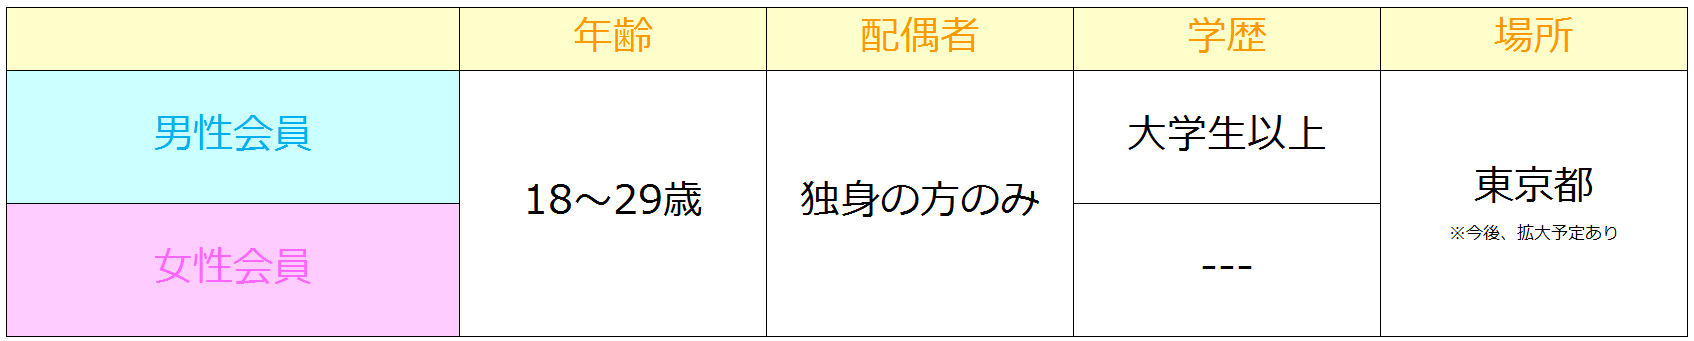
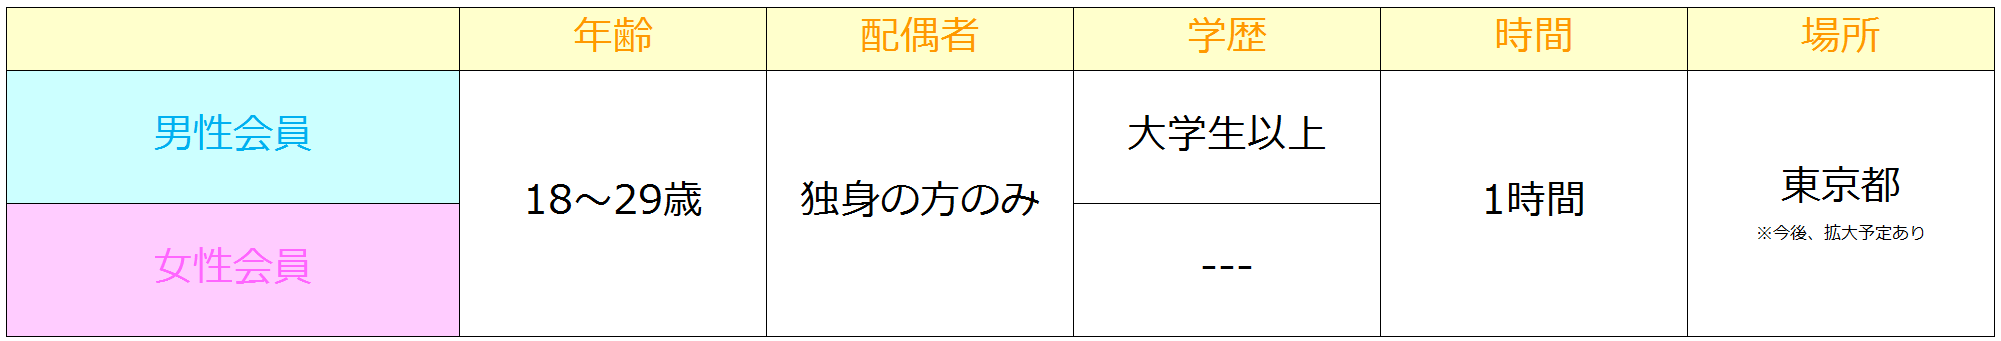
条件（1時間制）＆利用規約とプライバシーポリシー追加

diff --git a/sample/kiyaku.html b/sample/kiyaku.html
@@ -4,8 +4,8 @@
   <meta charset="UTF-8">
   <meta name="viewport" content="width=device-width,initial-scale=1.0,minimum-scale=1.0">
   <title>利用規約 | Symply</title>
-  <link rel="stylesheet" href="css/normalize.css">
-  <link rel="stylesheet" href="css/kiyaku.css">
+  <link rel="stylesheet" href="normalize.css">
+  <link rel="stylesheet" href="kiyaku.css">
   <link rel="shortcut icon" href="images/logo.jpg">
   <script src="jquery-3.1.1.min.js"></script> 
 </head>
@@ -13,19 +13,19 @@
 <div id="kihon">
   <h1>Symply利用規約</h1>
   <div id="zentei">
-      <p>最新改訂日：2016年10月31日</p>
+      <p>最新改訂日：2016年12月1日</p>
       <p>Symply（以下「当サービス」といいます）は、Symply株式会社（以下「当社」が運営しております。なお、当社が当サービスの運営の全部又は一部を第三者に委託する場合、当該第三者を含みます。以下同様とします）が提供しています。</p>
 
-      <p>お客様が会員登録をなさるかどうかに関係なく、当サービスをご利用になれば、お客様はその時点で以下の利用規約（以下「本規約」といいます）をそのまま同意したことになり、本規約を内容とする当サービス利用契約（当社がお客様に当サービスを提供するための契約をいい、以下「本契約」といいます）が当社との間で締結されます。当サービスをご利用になる前に、本規約をよくお読みください。本規約に同意しない場合は、当サービスを利用しないでください。</p>
+      <p>当サービスをご利用されたお客様はその時点で以下の利用規約（以下「本規約」といいます）に同意したことになります。本規約を内容とする当サービス利用契約（当社がお客様に当サービスを提供するための契約をいい、以下「本契約」といいます）が当社との間で締結されます。</p>
 
-      <p>また、本規約に同意いただいた場合、当社は、お客様のメールアドレス（お客様がFacebookに登録したメールアドレスまたはその後当社にお知らせいただいたメールアドレス）に、当サービスからの広告等を配信できるものとします。</p>
+      <p>本規約に同意いただいた場合、当社からお客様のメールアドレス（お客様がFacebookに登録したメールアドレスまたはその後当社にお知らせいただいたメールアドレス）に、当サービスからの広告等を配信できるものとします。</p>
 
-      <p>なお、当サービスのウェブサイト（https://symply.jp）上で別途定める諸規定（当社のお客様への通知、ユーザーガイド、料金表、ヘルプ、注意書き、その他当社による当サービスのウェブサイト、アプリ上の記載の全てを含みます）は、それぞれ本規約の一部を構成します。本規約の内容と当該諸規定の内容との間に矛盾抵触がある場合には、本規約が優先して適用されますので、本規約と併せてご確認ください。</p>
+      <p>なお、当サービスのウェブサイト（http://symply.jp）上で別途定める諸規定（当社のお客様への通知、ユーザーガイド、料金表、ヘルプ、注意書き、その他当社による当サービスのウェブサイトの記載の全てを含みます）は、それぞれ本規約の一部を構成します。本規約の内容と当該諸規定の内容との間に矛盾抵触がある場合には、本規約が優先して適用されますので、本規約と併せてご確認ください。</p>
   </div>
   
   <div id="about">
       <h2>1.当サービスとは？</h2>
-      <p>当サービスは、恋愛や出会いを希望する世界中の独身の男女（18歳以上。ただし、18歳以上であっても、高校在学中の方、又は、高校に在学はしていないものの高校生相当の方※〔以下、併せて「高校生」と総称します〕は除きます）を対象に、最適なパートナーと知り合う機会を提供するものです（なお、結婚相手をご紹介するサービスではありません。ご結婚を目的とした利用はお控えください）。 当サービスへの会員登録は無料で行うことができますが、無料でお使いになれる機能は限られており、他のお客様と十分なコミュニケーションをとるためには有料の機能をお使いいただくことをお勧めしております（詳しくは第4項をご参照ください）。
+      <p>当サービスは、恋愛や出会いを希望する世界中の独身の男女（18歳以上。ただし、18歳以上であっても、高校在学中の方、又は、高校に在学はしていないものの高校生相当の方※〔以下、併せて「高校生」と総称します〕は除きます）を対象に、最適なパートナーと知り合う機会を提供するものです（なお、結婚相手をご紹介するサービスではありません。ご結婚を目的とした利用はお控えください）。
       </p>
   </div>
     
@@ -44,28 +44,23 @@
   </div>
     
   <div id="plan">
-      <h2>4.会員プラン料金について</h2>
-      <p>当サービスのうち、有料のオプションサービス、有料会員が利用できる機能およびサービス（以下「有料サービス」と総称します。なお、Omiaiポイントに関するオプションサービスは除きます）のご利用に際しては、当社の定めるご利用料金（以下「会員プラン料金」といいます）をお支払いいただきます（最新の有料会員プランと会員プラン料金は、こちらをご参照ください）。</p>
+      <h2>4.料金について</h2>
+      <p>料金の決済手段には、クレジットカード決済（クレジットカードは必ずお客様本人名義のものをご利用ください。なお、Vプリカ、デビットカード等、クレジットカードでないものはご利用になれませんのでご注意ください）にございます。これら以外の決済手段を用いた場合については当社によるサポート対象外となり、料金の支払いを当社が確認できない等、これら以外の決済手段を用いた場合にお客様が被る不利益について、当社は責任を負いかねますので、ご注意ください。。</p>
 
-      <p>なお、会員プラン料金の決済手段には、クレジットカード決済（クレジットカードは必ずお客様本人名義のものをご利用ください。なお、Vプリカ、デビットカード等、クレジットカードでないものはご利用になれませんのでご注意ください）、コンビニ決済、Appleのアプリ内課金決済、Google Play決済、プリペイド方式の電子マネーによる決済手段（BitCash、WebMoney、NETCASH等をいい、以下「プリペイド式電子マネー決済」と総称します）その他当社が別途定める方法がございます。これら以外の決済手段を用いた場合については当社によるサポート対象外となり、会員プラン料金の支払いを当社が確認できない等、これら以外の決済手段を用いた場合にお客様が被る不利益について、当社は責任を負いかねますので、ご注意ください。また、各決済手段による契約期間については、第8項をご参照ください。</p>
-
-      <p>ご購入手続き完了後は、当サービスの使用の有無にかかわらず、ご購入のキャンセル、会員プラン料金の返金や未利用期間の日割り計算による精算および有料サービスプランの変更等は、いずれの決済手段をご利用の場合においても一切いたしかねますので、ご注意ください。</p>
-
-      <p>また、月または期間の途中で有料サービスをお申し込みまたはご解約（解約につきましては第8項をご参照ください）になった場合であっても、既にお支払いいただいた（ご購入手続きを完了された場合を含みます。以下同様とします。）会員プラン料金の返金や未利用期間の日割り計算による精算は一切行っておりませんので、ご注意ください。</p>
+      <p>ご購入手続き完了後は、当サービスの使用の有無にかかわらず、ご購入のキャンセル、料金の返金や精算およびサービスの変更等は、いずれの決済手段をご利用の場合においても一切いたしかねますので、ご注意ください。</p>
   </div>
     
   <div id="kinshi">
       <h2>5.禁止事項</h2>
       <p>当サービスのご利用に際しては、以下の事項を禁止します。なお、当サービスでは、お客様が本規約に違反する行為を発見した場合、当社に報告する機能がございます。詳しくはこちらをご覧ください。</p>
       <p>(1)正しく事実に合致しない情報を、当社に提供し、または当サービスに投稿、掲載、開示、配布、提供もしくは送信（以下これらを総称して「投稿等」といいます）する行為（Facebookを通じて提供する場合を含みます）</p>
-      <p>※プロフィールの内容は常に最新かつ正確なものとなるようにしてください。これを怠ったことによるお客様の不利益につき、当社は一切の責任を負いません。また、プロフィールの内容については、本規約に抵触していないかどうかを当社が掲載前に確認し、確認の結果、当社はお客様のプロフィールの掲載を見合わせる場合があります（ただし、当社はこの確認の義務を負いません。すべてのお客様のプロフィールの内容をもれなく掲載前に確認することはできかねます）。なお、当社が設けた選別基準によって登録されない場合があります。</p>
       <p>(2)日本または当サービスのご利用の際にお客様が所在する国・地域の法令に違反する行為</p>
       <p>(3)社会規範・公序良俗に反するものや、他人の権利を侵害し、または他人の迷惑となるような情報を投稿等する行為</p>
       <p>(4)他のお客様に対して誹謗中傷したり、嫌がらせをしたりする行為</p>
       <p>(5)他人の使用するソフトウェア、ハードウェアなどの機能を破壊したり、妨害したりするようなプログラムなどの投稿等をする行為</p>
       <p>(6)当社のサーバーまたはネットワークの機能を破壊したり、妨害したりする行為</p>
       <p>(7)当社のサービス（当サービスに限りません）の運営または当社の配信する広告の掲載（当サービスに関するものに限りません）を妨害し、または妨害するおそれのある行為</p>
-      <p>(8)他のお客様の個人情報（Omiaiプライバシーステートメントにて定義されます）などを無断で収集したり蓄積したりする行為</p>
+      <p>(8)他のお客様の個人情報などを無断で収集したり蓄積したりする行為</p>
       <p>(9)当サービスを、提供の趣旨に照らして本来のサービス提供の目的（第1項をご参照ください）とは異なる目的で利用する行為</p>
       <p>(10)他のお客様のアカウントを使用してサービスを利用する行為</p>
       <p>(11)Facebookの利用規約（ガイドライン、ポリシー、ヘルプ、注意書きその他のFacebookが定める規定を含みます。以下同様とします）に違反する行為</p>
@@ -108,20 +103,6 @@
   <div id="keiyaku">
       <h2>6.契約期間および契約の終了</h2>
       <p>お客様が当サービスを利用され、または当サービスのお客様である限り、本契約は有効です。当サービスではクーリングオフは認められません。</p>
-
-      <p>お客様は当サービスの退会申請フォームから契約終了の通知を当社にお送りいただくことで、いつでもいかなる理由でも、お客様は本契約を終了させることができます。ただし、当社の定める手続きによる退会申請がなされた場合または本規約に基づくとき以外の場合には、本契約が終了いたしませんので、ご注意ください。なお、既に支払われた会員プラン料金については、本契約が終了し、または終了していなくても、一切、返金はいたしかねます。</p>
-
-      <p>なお、クレジットカード決済、コンビニ決済、プリペイド式電子マネー決済により有料サービスをご利用の場合、本契約終了以前に購入された有料サービスの契約期間が残っていても、本契約終了後は、本契約終了の理由を問わず、有料サービスがご利用いただけなくなりますので、ご注意ください（Appleのアプリ内課金の場合には、Appleの規約により、有料サービスの契約期間が残っている限り、退会申請をして本契約を終了させることができませんので、ご注意ください）。</p>
-
-      <p>■有料サービスが自動更新される場合について■</p>
-      <p>クレジットカード決済、Google Play決済またはAppleのアプリ内課金により会員プラン料金をお支払いいただいている場合、有料サービスはお客様がご自身で自動更新を停止されない限り、自動的に更新されます。当サービスの設定で自動更新をオフにすることで、有料サービスの自動更新およびその料金のお支払いを停止することが可能です。詳細はヘルプをご確認ください。自動更新をオフにし、ご購入いただいた有料サービスの契約期間が満了となった時点で、有料サービスが終了となります（Appleのアプリ内課金またはGoogle Play決済の場合、ご自身で自動更新を停止されない限り、毎月AppleまたはGoogleへの支払いが発生いたします。お問い合わせ等は当社では対応いたしかねますので、各社のサポートセンターにお申し出ください）。</p>
-
-      <p>なお、クレジットカード決済により有料サービスをご利用の場合、自動更新をオフにした時点から、当サービスの退会申請フォームから無料サービス（当サービスのうち、無料会員が利用できる機能およびサービス）を含む本契約を終了させることが可能となります。また、Appleのアプリ内課金またはGoogle Play決済をご利用の場合、有料サービスの契約期間満了後に、退会申請フォームから無料サービスを含む本契約を終了させることが可能となります。</p>
-
-      <p>■有料サービスが自動更新されない場合について■</p>
-      <p>コンビニ決済、プリペイド式電子マネー決済により会員プラン料金をお支払いいただいている場合、有料サービスは自動更新されません。継続してサービスをご利用される場合、お客様ご自身で有料サービスの契約期間満了後に再度ご購入いただく必要があります。お客様が有料サービスの利用を終了された場合、それまでにご利用いただいていた有料サービスの全てがご利用いただけなくなります。</p>
-
-      <p>なお、コンビニ決済、プリペイド式電子マネー決済の場合、有料サービスの契約期間内であっても、即時で退会申請フォームより契約を終了させる事が可能となります。</p>
   </div>
     
   <div id="mokuteki">
@@ -133,7 +114,7 @@
       <h2>8.投稿等の削除、サービスの利用停止、アカウント削除について</h2>
       <p>お客様が当サービスに投稿等した内容および当サービスを通してお客様が他のお客様に提供した内容については、お客様が単独で責任を負うものとし、当社は一切責任を負いません。お客様が当サービスに関連して投稿等した場合はいつでも、その内容が正確であり、本契約に違反せず、かつあらゆる点で誰にも損害を生じさせるものでないことを、お客様は表明し、保証したことになります。</p>
 
-      <p>当社は、当サービスを適正に運営するために、以下の場合にはあらかじめ通知することなく、お客様のメッセージその他のお客様が投稿等したコンテンツを削除したり、サービス提供の全部または一部の利用を一時的に停止したり、お客様のアカウントを削除する（本契約も終了します）等、当社が適切と判断する各措置を講じることができるものとします。なお、有料会員であっても、各措置を講じるか否か、どのような措置を講じるかの判断基準は無料会員と同様ですので、ご注意ください。有料会員のアカウントを削除した場合であっても、日割り計算による精算等は一切応じかねますのでご注意ください（なお、クレジットカード決済をご利用の場合には、自動更新は停止されます）。また、残っていたOmiaiポイントは消滅しますが、返金等は一切対応しておりませんので、ご注意ください。</p>
+      <p>当社は、当サービスを適正に運営するために、以下の場合にはあらかじめ通知することなく、お客様のメッセージその他のお客様が投稿等したコンテンツを削除したり、サービス提供の全部または一部の利用を一時的に停止したり、お客様のアカウントを削除する（本契約も終了します）等、当社が適切と判断する各措置を講じることができるものとします。なお、有料会員であっても、各措置を講じるか否か、どのような措置を講じるかの判断基準は無料会員と同様ですので、ご注意ください。有料会員のアカウントを削除した場合であっても、日割り計算による精算等は一切応じかねますのでご注意ください（なお、クレジットカード決済をご利用の場合には、自動更新は停止されます）。また、返金等は一切対応しておりませんので、ご注意ください。</p>
 
       <p>なお、当サービス上で提供する「メッセージ」システムによるコミュニケーション手段は当社の管理する電子掲示板を通じて提供されます。電子掲示板は、「メッセージ」を送受信するお客様同士と当社が閲覧できる仕様となっております。お客様は、事故を防止し健全なサービスを運営する目的で、当社が電子掲示板に記載されている内容を閲覧し、以下のとおり削除等の措置をとることにあらかじめ同意するものとします。ただし、当社として電子掲示板を巡回・監視する義務を負うものではありません。</p>
 

diff --git a/sample/privacy.html b/sample/privacy.html
@@ -1,0 +1,122 @@
+<!DOCTYPE html>
+<html lang="ja">
+<head>
+  <meta charset="UTF-8">
+  <meta name="viewport" content="width=device-width,initial-scale=1.0,minimum-scale=1.0">
+  <title>利用規約 | Symply</title>
+  <link rel="stylesheet" href="normalize.css">
+  <link rel="stylesheet" href="kiyaku.css">
+  <link rel="shortcut icon" href="images/logo.jpg">
+  <script src="jquery-3.1.1.min.js"></script> 
+</head>
+<body>
+<div id="kihon">
+    <h1>プライバシーポリシー</h1>
+  <div id="zentei">
+      <p>最新改定日：2016年12月1日</p>
+
+<p>Symplyは、Symply株式会社(以下「当社」といいます) が運営するサービス（symply.jpのウェブサイトとFacebookアプリケーション及びFacebookページを含みますが、それに限定されません。以下「本サービス」と総称します）です。</p>
+
+<p>当社はお客様のプライバシーを尊重し、プライバシーを保護するために、当社の個人情報保護方針に基づき、Symply専用のプライバシーポリシー（以下「本ポリシー」といいます）を策定しました。本サービスを利用されるにあたっては、当社の個人情報保護方針と本ポリシーを注意してお読みください。なお、お客様は、本サービスの利用により、当社の個人情報保護方針と本ポリシーに従ったお客様の情報の取扱いを承認したものとみなされます。</p>
+      </div>
+    
+     <h2>1.お客様に関して収集する情報</h2>
+<p>（１）個人情報の定義</p>
+<p>個人情報とは、生存する個人に関する情報であり、当該情報に含まれる氏名、生年月日その他の記述等により特定の個人を識別することができるもの（他の情報と容易に照合することができ、それにより特定の個人を識別することができることとなるものを含みます）を指します。</p>
+<p>なお、当社は、それ単独では又は容易に照合可能な他の情報と照合することにより個人を識別できない、ユーザーID、パスワード、クッキー等を用いて生成された情報、アクセスログ、ログイン履歴、Facebookのアカウント情報等（以下「非個人情報」といいます）であっても、本ステートメントに別途定めるほか、適正に取り扱うよう努めます。</p>
+<p>以下では、お客様に関して収集する個人情報及び非個人情報を併せて「お客様情報」と総称します。</p>
+
+<p>（２）お客様に関する情報の収集方法</p>
+<p>当社は、主として下記の方法で、お客様の情報を収集します。</p>
+
+    <p>・Facebookから取り込む方法</p>
+    <p>当社は、本サービスに会員登録した時や、SymplyのFacebookアプリケーション（以下「Facebookアプリ」といいます）に接続した時、その他Symplyの様々な機能を利用した時に、お客様のFacebookアカウントからお客様に関する情報を収集します。すなわち、Facebookアプリの許諾（アプリの許可）画面にて、「許可する」をクリックすることで、自動的に本サービス上のプロフィール情報に、お客様のFacebookユーザーID、メールアドレス、名前、性別、プロフィール写真、その他お客様が公開している情報（生年月日、使用言語、居住国、血液型、趣味･関心、友達の情報など）を取り込みます。</p>
+    <p>また、お客様は、本サービスの「設定」ページから、いつでも本サービス上のプロフィール情報を編集することが可能です（ただし、生年月日及び性別を編集することはできません）。</p>
+
+    <p>・本サービス上で入力して頂く方法</p>
+    <p>当社は、お客様が本サービス上で入力するか、何らかの他の方法で当社に提供する、お客様情報を収集します。本サービスの利用にあたり、興味、行動、出身地、お客様のニックネーム等に関する情報を入力した場合には、これらの情報が収集されます。</p>
+    <p>また、当社は、名前、住所、電子メールアドレスなどお客様が当社に提供する他人についての情報を収集することがあります。お客様は、他人の個人情報を当社に提供するに当たっては、当該情報が違法に収集された情報ではないことを表明し、保証したものとみなされます。</p>
+
+    <p>・ブラウザからの取得による方法</p>
+    <p>当社は、本サービスを利用されたお客様のブラウザから、情報を自動的に収集します。この情報には、IPアドレス、ブラウザの種類と言語、利用時間、お客様が利用したウェブページのアドレス等を含みます。</p>
+
+    <p>・クッキーを利用する方法</p>
+    <p>当社は、本サービス利用時に、お客様のコンピューターに1又は複数のクッキーを割り当て、本サービスの利用を個々のお客様ごとに最適化します。クッキーを利用して自動的に収集する情報は、お客様が利用したウェブページ、訪問時刻と日付、クリックしたリンクのアドレス、本サービス上で行った検索履歴などです。当社の広告が表示される他のウェブサイトを訪問している間、当社 (又は第三者) は、本サービス上で収集した上記のデータを使用して、よりお客様の興味を引きそうな当社の広告を表示します。</p>
+    <p>多くのブラウザは自動的にクッキーを受け入れますが、多くのブラウザでは、ブラウザ設定を変更してクッキーを拒否できます。なお、クッキーの受け入れを拒否すると、本サービスで提供する機能のいくつかが利用できなくなる可能性がありますので、注意して下さい。</p>
+
+    <p>・その他の方法</p>
+    <p>当社は、ウェブビーコンや他の類似の技術を使用して、お客様の本サービスの利用状況を把握します。また、ウェブビーコンを広告や電子メールメッセージ等に入れて、メッセージが開かれ、行動が取られたかを判断することがあります。この方法で得る情報は、お客様に提供する本サービスの最適化を可能にし、よりお客様の興味を引くであろう広告の配信を可能にし、また、当社による本サービスの提供の効率を測定することを可能にします。</p>
+
+    <p>（３）第三者が収集する情報</p>
+    <p>本サービスに関する広告が、当社が許可した事業者その他の第三者が運営するウェブサイト上に表示されることがあります。このとき、これらの第三者は、クッキーなどのトラッキング技術を使用して、広告を閲覧するお客様の情報を収集することがあります。</p>
+
+    <h2>2.お客様情報の利用方法</h2>
+    <p>当社は、お客様情報を主として以下の目的で利用します。なお、これらの目的において、後記の提供先にお客様情報を提供することがあります。</p>
+<p>・本サービスの円滑な運営、提供</p>
+<p>・アカウント管理とカスタマーサポート（アフターサービス、各種お問い合わせ、苦情等への対応）の提供</p>
+<p>・本サービスの改善や開発等による品質の向上</p>
+<p>・当社の製品、サービス、コンテンツ、及び他者が提供する製品、サービス、コンテンツの利用や興味の調査と解析の実行</p>
+<p>・関心のありそうな製品、サービスについての、当社、もしくは他の第三者（カスタマーセンター）からの電子メール、郵便、電話その他の方法による連絡</p>
+<p>・本サービスと他のウェブサイトでお客様の興味に合うよう調整されたコンテンツ及び広告の作成と表示</p>
+<p>・コンテストや懸賞などへの参加資格の証明と賞の送付</p>
+<p>・契約や法律等に基づく義務の履行や権利の行使（料金請求など）</p>
+<p>・システムの維持、不具合への対応、その他技術上又は運営上必要な事業の管理</p>
+<p>・他のウェブサイト訪問時の当社の広告の提供</p>
+<p>・当社からのメールマガジンの配信、アンケートの実施（アンケート結果の公表を含みます）</p>
+<p>・決済サービス、物流サービスの提供</p>
+<p>・当社又は第三者の新商品、サービス、セミナーの情報提供</p>
+<p>・年齢確認</p>
+<p>・法令違反や利用規約違反等が疑われる場合の事実関係調査（公的機関への協力を含みます）</p>
+<p>・紛争、訴訟等への対応</p>
+<p>・本サービスの良縁報告の掲載（一般社団法人 結婚・婚活応援プロジェクトでの掲載や広告など本サービス外の掲載を含みます）</p>
+<p>・その他、当社サービスに付随・関連する業務の遂行のため</p>
+
+    <h2>3.お客様情報の第三者提供</h2>
+<p>（１）個人情報の第三者提供</p>
+<p>当社は、個人情報については、個人情報の保護に関する法律その他の法令に基づき開示が認められる場合を除くほか、あらかじめお客様の同意を得ないで、第三者に提供しません。ただし、次に掲げる場合にはこの限りではありません。</p>
+
+<p>① 法令に基づく場合</p>
+<p>② 人の生命、身体又は財産の保護のために必要がある場合であって、本人の同意を得ることが困難であるとき。</p>
+<p>③ 公衆衛生の向上又は児童の健全な育成の推進のために特に必要がある場合であって、本人の同意を得ることが困難であるとき。</p>
+<p>④ 国の機関若しくは地方公共団体又はその委託を受けた者が法令の定める事務　を遂行することに対して協力する必要がある場合であって、ユーザーの同意を得ることによって当該事務の遂行に支障を及ぼすおそれがある場合</p>
+<p>⑤ 当社が利用目的の達成に必要な範囲内において個人情報の取扱いの全部又は一部を委託する場合（当社では主にクレジット決済、カスタマーサポート業務等におきまして外部委託を行っております）</p>
+<p>⑥ 当社が利用目的の達成に必要な範囲内において協力企業に提供する場合（当社では本サービスの良縁報告を一般社団法人　結婚・婚活応援プロジェクト及び当該プロジェクト参画企業に提供します）</p>
+<p>⑦ 合併その他の事由による事業の承継に伴って個人情報が提供される場合</p>
+<p>⑧ その他個人情報の保護に関する法律その他の法令で認められる場合</p>
+
+    <p>（２）非個人情報の第三者提供</p>
+<p>当社は、収集した非個人情報を第三者に提供し、又は第三者と共同して利用することがあります。また、収集した非個人情報を、他の機会に収集した非個人情報と結合して利用することがあります。</p>
+
+    <h2>4.第三者のウェブサイト</h2>
+<p>本サービス上に存在する第三者のウェブサイトへのリンクをクリックした場合には、当該第三者のウェブサイトが、独自に個人情報を含む情報をお客様から収集することがあり、当社は、これらのウェブサイトから、収集された情報の提供を受けることがあります。第三者のウェブサイトによる情報の収集については、当該ウェブサイトの個人情報保護に関する方針をご確認ください。</p>
+
+    <h2>5.お客様情報の収集と利用の選択</h2>
+<p>・お客様は、特定の情報を当社に提供しないことを選択できますが、これらの情報が会員登録、製品やサービスの購入、コンテスト、キャンペーン、調査や懸賞への参加、質問その他本サービスの特定の機能を利用するために必要な場合には、本サービスの全部又は一部が利用できないことがあります。</p>
+
+<p>・お客様は、いつでも、本サービス上の「アカウント設定」ページにて、当社からの電子メールの配信停止を選択できます。配信停止のご要望を処理するには、10日間ほどかかります。ただし、配信停止をご要望いただいても、重大な不具合情報や利用規約の変更等の重要なお知らせは 配信することがありますのでご了承ください。</p>
+
+    <h2>6.個人情報の保護方法</h2>
+<p>当社は、本サービスを広く提供するにあたり、個人情報を保有する際には、個人情報を大切に保護することを企業の重要な社会的使命と認識し、当社役員、当社従業員及び委託先が個人情報保護に関する法令を遵守するよう適切に監督することをお約束し、以下のとおり宣誓します。</p>
+
+<p>①当社は、事業内容と規模を考慮し、適正な個人情報の取得、利用及び提供を行います。</p>
+<p>②当社は、個人情報の利用目的を本ステートメントにおいて公表し、あらかじめ本人の同意を得ない限り、利用目的を超えた個人情報の取扱いをいたしません。</p>
+<p>③当社は、個人情報への不正アクセス、個人情報の漏洩・紛失・滅失・破損の防止のための安全管理体制を構築します。また、個人情報に関する事故に対しては適切に是正措置及び予防措置を講じます。</p>
+<p>④当社は、個人情報の取り扱いに関する問い合わせ・苦情・相談に対して、問い合わせ窓口を設置します。</p>
+
+    <h2>7.子供のプライバシー</h2>
+<p>本サービスは一般的に誰もが閲覧可能なウェブサイトですが、18歳以上の方にサービス利用を制限しています。18歳未満の子供の個人情報を故意に収集することはありません。</p>
+
+    <h2>8.日本国外からの本サービスの訪問</h2>
+<p>日本国外から本サービスを利用する場合、お客様情報は当社が使用するサーバーに送信、蓄積され、当社の個人情報保護方針と本ステートメントに従って処理されます。また、お客様は本サービスに関わるすべての事項について、日本法の適用に同意したとみなされます。</p>
+
+    <h2>9.本ステートメントの変更</h2>
+<p>当社は、個人情報の取扱いに関する運用状況を適宜見直し、継続的な改善に努めるため、必要に応じて、本ステートメントの全部又は一部を変更することがあります。重要な変更がある場合には、ウェブサイト上での告知等により、お客様に通知します。収集当初と異なった目的を個人情報の利用目的に追加する場合、本ステートメントの利用目的を変更いたします。変更後の本ステートメントにご同意いただけない場合には、お客様は、ご自身の判断により、「10.連絡方法」に定める方法で、当該利用目的での個人情報の利用の停止等を求めることができます。なお、本ステートメントの変更後にお客様が本サービスを利用した場合には、変更後の本ステートメントの内容を確認したうえ、その適用を受けることに同意したものとみなされます。</p>
+
+    <h2>10.連絡方法</h2>
+<p>（１）お問い合わせ窓口
+<p>当社は、お客様から提供いただいた個人情報に関するお問合せ、苦情の申し出、開示等（利用目的の通知、個人情報の開示、内容の照会、訂正、削除、利用及び第三者提供の停止の総称をいいます。以下同様とします）については、法令が定める範囲で適切に対応いたします。ただし、その場合には、当社指定の必要書類にてご請求いただくとともに、当社指定の本人確認書類をご送付いただく必要がございますので、郵送にてご請求頂きますようお願い申し上げます。なお、手数料につきましては、徴収いたしません。</p>
+    
+    </div>
+    </body>
+      
+    

diff --git a/sample/style.css b/sample/style.css
@@ -384,6 +384,16 @@ body {
 #cat_cover .dating:hover {
     background-color: rgba(255, 255, 255, .2);
 }
+
+#cat_cover .kiyaku{
+    color: #fff;
+    font-size: 1.2ex;
+    position: absolute;
+    top: 540px;
+    left: 320px;
+    z-index: 200;
+}
+
 .header {
   padding: 1px;
 }
@@ -874,6 +884,10 @@ body {
 #cat_cover #top_title .top_facebook {
     left: 70px;
     }
+#cat_cover #top_title .kiyaku {
+    font-size: 1.0ex;
+    left: 60px;
+    }
 #cat_cover #top_title .dating {
     left: 125px;
     }
@@ -1214,6 +1228,10 @@ body {
     left: 50px;
     z-index: 200;
     display: none;
+    }
+#cat_cover #top_title .kiyaku {
+    font-size: 1.0ex;
+    left: 74px;
     }
 /*
 #cat_cover #top_title .top_facebook {
@@ -1561,6 +1579,10 @@ body {
     z-index: 200;
     display: none;
     }
+#cat_cover #top_title .kiyaku {
+    font-size: 1.0ex;
+    left: 82px;
+    }
 #cat_cover #top_title .dating {
     left: 150px;
     }
@@ -1793,6 +1815,9 @@ body {
         font-size: 2.0ex;
       left: 735px;
   }
+  #cat_cover #top_title .kiyaku {
+    left: 115px;
+    }
   #cat_cover #top_title .dating{
       font-size: 2.0ex;
       left: 190px;

diff --git a/sample/index.html b/sample/index.html
@@ -113,6 +113,9 @@ require_once(__DIR__ . '/config.php');
             <a class="subtitle8">デート相手がきっと見つかる</a>
 <!--            <a class="subtitle9">—</a>-->
             <a class ="dating" href="index2.php">登録/ログイン</a>
+            <p class="kiyaku">
+            <a href="kiyaku.html">利用規約</a>および<a href="privacy.html">プライバシーポリシー</a>に同意して
+            </p>
 <!--
             <a class ="top_facebook" href="index2.php">
                 <div class="header_facebooklabel">Facebookで登録/ログイン</div>
@@ -143,7 +146,7 @@ require_once(__DIR__ . '/config.php');
 　<section class="about_symply">
 　　 <h2 class="heading">参加条件</h2>
      <p><img src ="images/jouken.png" class = "money_pic"></p>
-     <p class="about-text2">18～29歳で独身の方のみ、場所は東京近郊です。<br><br>
+     <p class="about-text2">18～29歳で独身の方のみ、場所は東京近郊で1時間のデートです。<br><br>
          男性会員のみ、大学生以上が参加資格となります。<br><br>
   </section>
     
